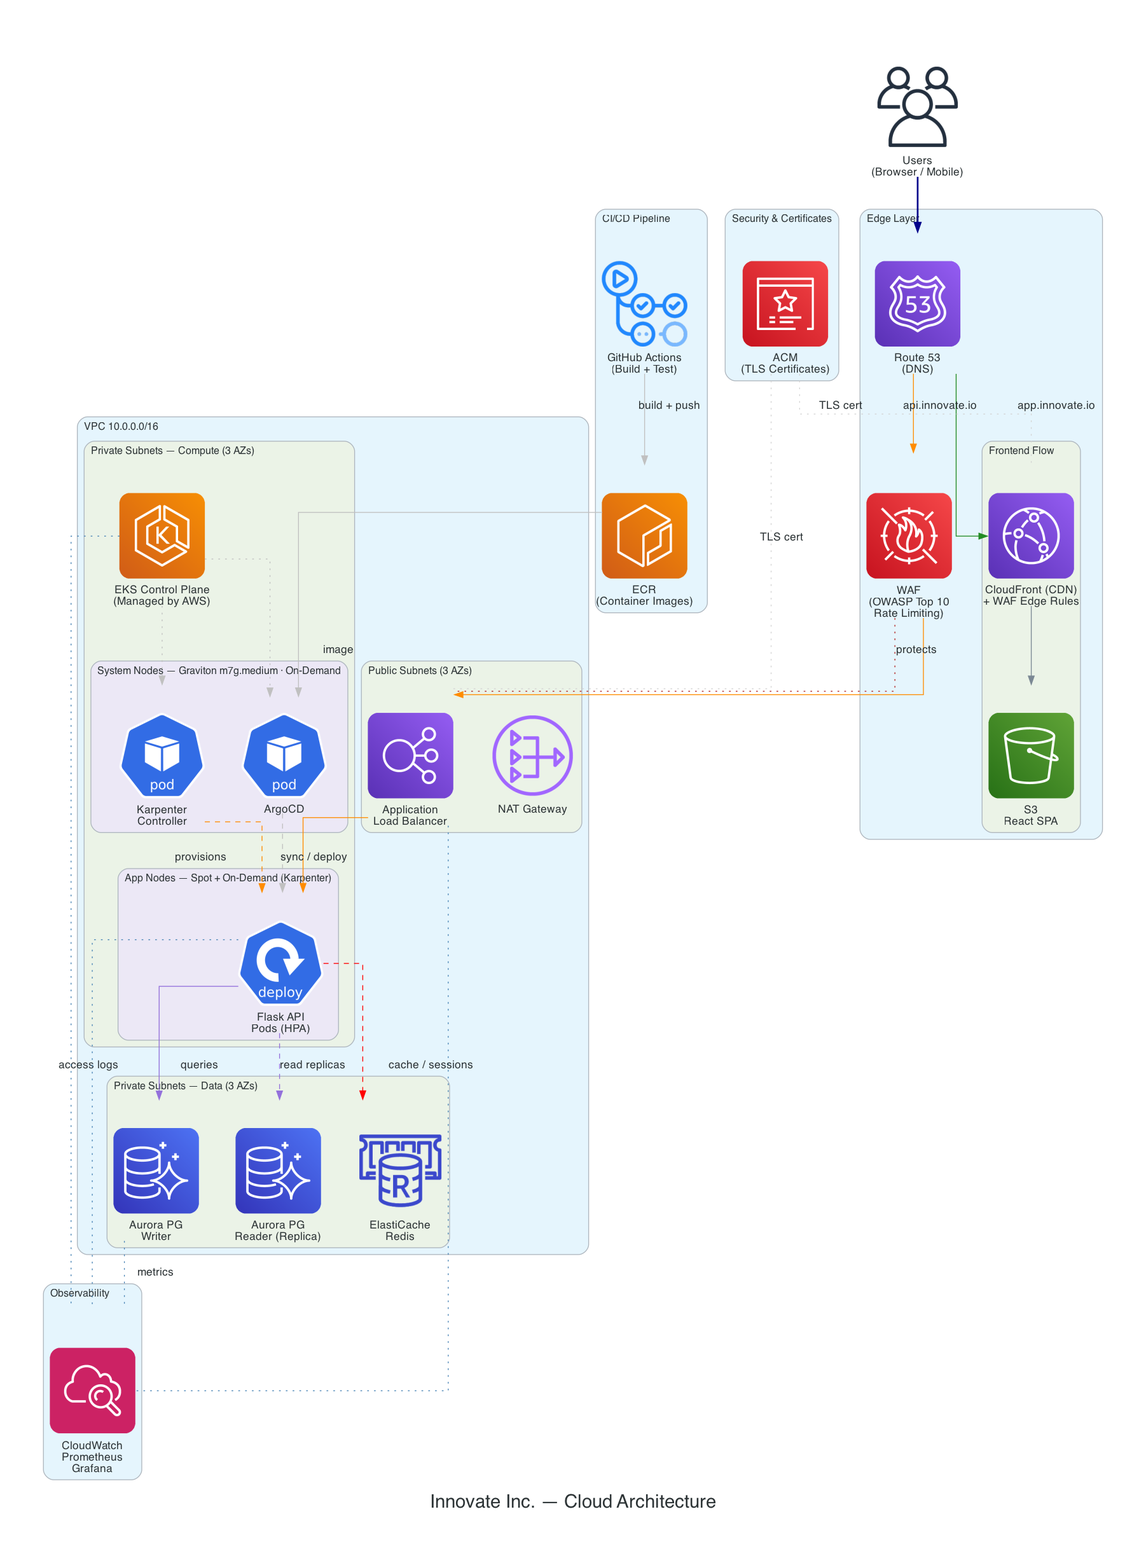
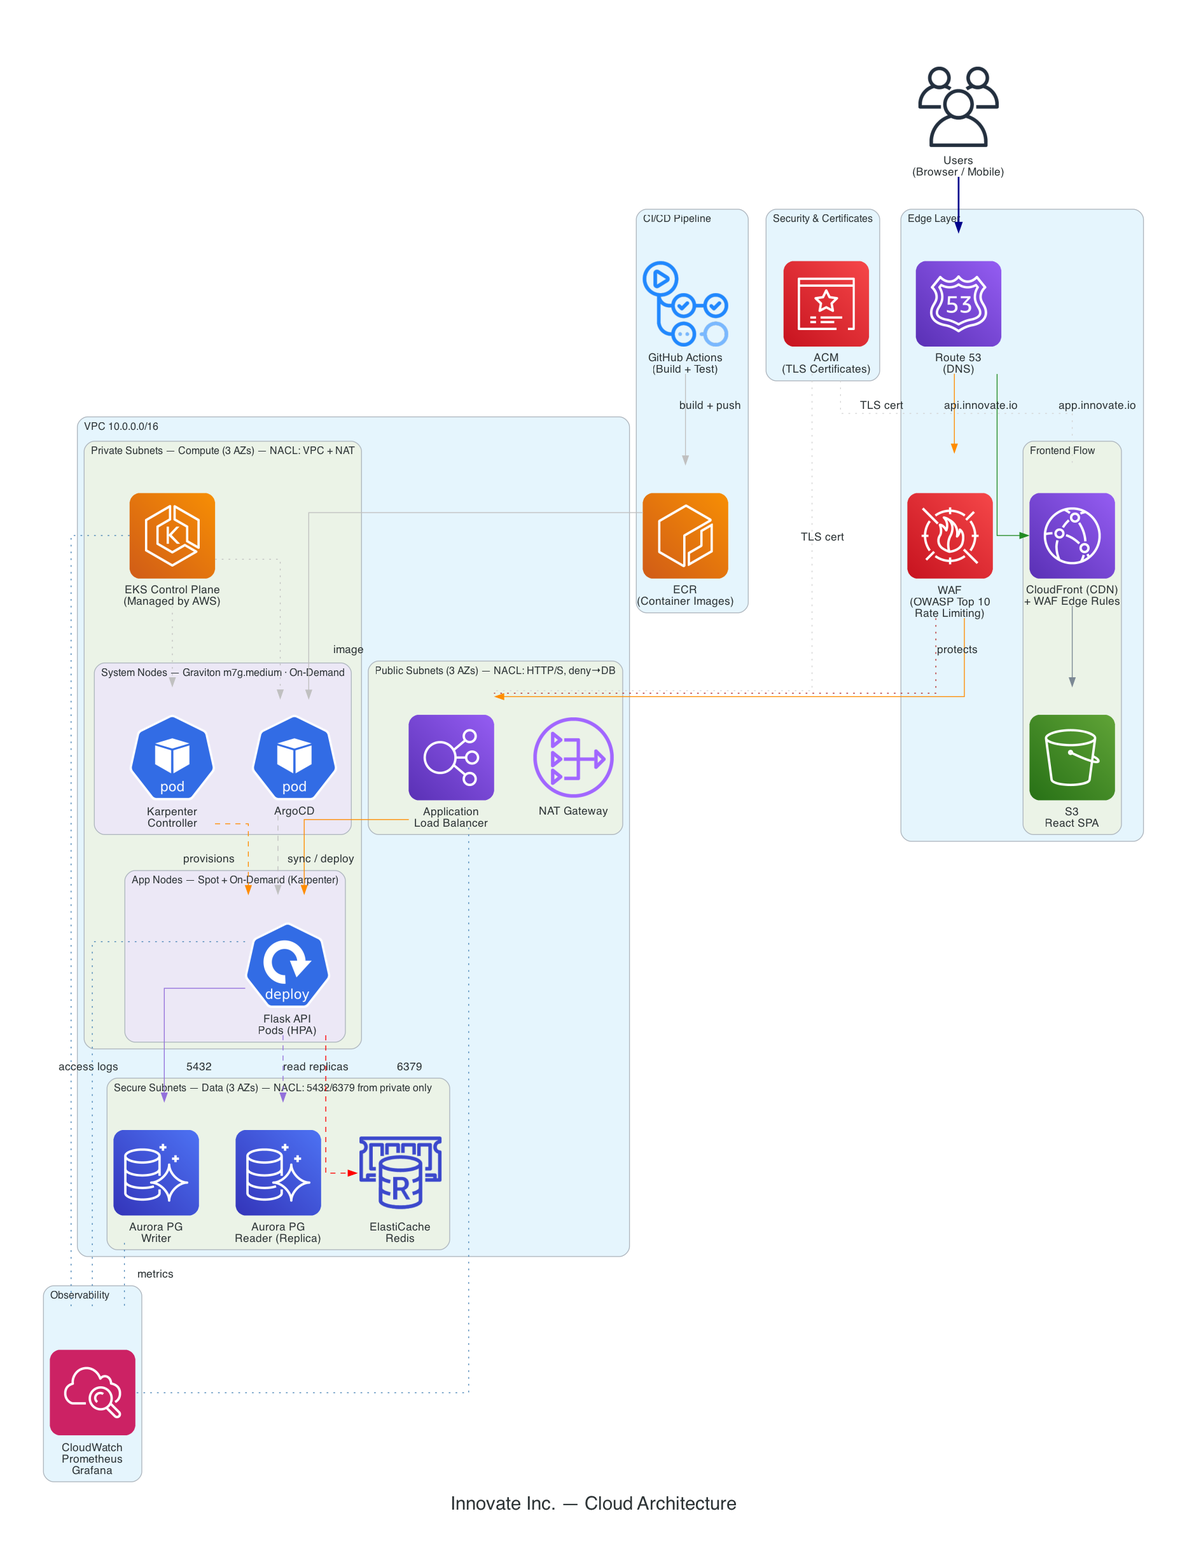
feat: add three-tier subnet architecture with NACL-based network segmentation
Introduce dedicated "secure" database subnets with Network ACLs enforcing
defense-in-depth: database tier only accepts PostgreSQL (5432) and Redis (6379)
from private compute subnets; public subnets explicitly denied from data tier.

diff --git a/terraform/diagrams/generate.py b/terraform/diagrams/generate.py
@@ -9,6 +9,7 @@ from diagrams.aws.network import NATGateway
 from diagrams.aws.integration import SQS
 from diagrams.aws.security import IAMRole
 from diagrams.k8s.compute import Pod, Deploy
+from diagrams.aws.database import Aurora, ElasticacheForRedis
 
 graph_attr = {
     "fontsize": "22",
@@ -39,10 +40,10 @@ with Diagram(
             # EKS control plane — managed by AWS, not inside subnets
             eks = EKS("EKS Control Plane\n(Managed by AWS)")
 
-            with Cluster("Public Subnets (3 AZs)"):
+            with Cluster("Public Subnets (3 AZs) — NACL: HTTP/S, deny→DB"):
                 nat = NATGateway("NAT Gateway\n(Outbound traffic)")
 
-            with Cluster("Private Subnets (3 AZs)"):
+            with Cluster("Private Subnets (3 AZs) — NACL: VPC + NAT"):
 
                 with Cluster("System Node Group — Graviton m7g.medium · On-Demand"):
                     karpenter = Pod("Karpenter\nController")
@@ -57,6 +58,10 @@ with Diagram(
                         node_x86 = EC2("c6i / m6i / r6i")
                         deploy_x86 = Deploy("amd64 workloads")
 
+            with Cluster("Secure Subnets (3 AZs) — NACL: 5432/6379 from private only"):
+                aurora = Aurora("Aurora PG\n(DB Subnet Group)")
+                redis = ElasticacheForRedis("ElastiCache Redis\n(future)")
+
     # EKS manages system pods
     eks >> Edge(color="darkblue", style="bold") >> karpenter
     eks >> Edge(color="darkblue") >> coredns
@@ -68,6 +73,10 @@ with Diagram(
     # Nodes run workloads
     node_arm >> deploy_arm
     node_x86 >> deploy_x86
+
+    # Workloads access data tier (through NACL-controlled boundary)
+    deploy_arm >> Edge(label="5432", style="dashed", color="mediumpurple") >> aurora
+    deploy_x86 >> Edge(label="6379", style="dashed", color="red") >> redis
 
     # Karpenter uses account-level services
     karpenter - Edge(label="auth", style="dotted", color="forestgreen") - iam

diff --git a/architecture/diagrams/generate.py b/architecture/diagrams/generate.py
@@ -55,11 +55,11 @@ with Diagram(
     # --- VPC ---
     with Cluster("VPC 10.0.0.0/16"):
 
-        with Cluster("Public Subnets (3 AZs)"):
+        with Cluster("Public Subnets (3 AZs) — NACL: HTTP/S, deny→DB"):
             alb = ElasticLoadBalancing("Application\nLoad Balancer")
             nat = NATGateway("NAT Gateway")
 
-        with Cluster("Private Subnets — Compute (3 AZs)"):
+        with Cluster("Private Subnets — Compute (3 AZs) — NACL: VPC + NAT"):
 
             # EKS control plane — managed by AWS, separate from worker nodes
             eks = EKS("EKS Control Plane\n(Managed by AWS)")
@@ -71,7 +71,7 @@ with Diagram(
             with Cluster("App Nodes — Spot + On-Demand (Karpenter)"):
                 flask_pods = Deploy("Flask API\nPods (HPA)")
 
-        with Cluster("Private Subnets — Data (3 AZs)"):
+        with Cluster("Secure Subnets — Data (3 AZs) — NACL: 5432/6379 from private only"):
             aurora_w = Aurora("Aurora PG\nWriter")
             aurora_r = Aurora("Aurora PG\nReader (Replica)")
             redis = ElasticacheForRedis("ElastiCache\nRedis")
@@ -102,10 +102,10 @@ with Diagram(
     # WAF also protects ALB (association)
     waf - Edge(style="dotted", color="firebrick", label="protects") - alb
 
-    # Flask → Data tier
-    flask_pods >> Edge(label="queries", color="mediumpurple") >> aurora_w
+    # Flask → Data tier (through NACL-controlled boundary)
+    flask_pods >> Edge(label="5432", color="mediumpurple") >> aurora_w
     flask_pods >> Edge(label="read replicas", style="dashed", color="mediumpurple") >> aurora_r
-    flask_pods >> Edge(label="cache / sessions", style="dashed", color="red") >> redis
+    flask_pods >> Edge(label="6379", style="dashed", color="red") >> redis
 
     # EKS → system pods (control, not traffic)
     eks >> Edge(style="dotted", color="gray") >> karpenter

diff --git a/architecture/README.md b/architecture/README.md
@@ -59,6 +59,8 @@ This document presents the cloud architecture for Innovate Inc.'s web applicatio
   │  │  └───────┬───────┘     └──────────┘     └──────────┘           │  │
   │  └──────────┼──────────────────────────────────────────────────────┘  │
   │             │                                                          │
+  │             │                                                          │
+  │             │  NACL: allow from public subnets + ephemeral from internet│
   │             ▼                                                          │
   │  ┌─── Private Subnets (Compute) ───────────────────────────────────┐  │
   │  │                                                                  │  │
@@ -78,8 +80,10 @@ This document presents the cloud architecture for Innovate Inc.'s web applicatio
   │  │  └───────────┘     └───────────┘     └───────────┘             │  │
   │  └──────────────────────────┬───────────────────────────────────────┘  │
   │                             │                                          │
+  │                             │  NACL: allow ONLY 5432/6379 from private │
+  │                             │        deny all other (public blocked)   │
   │                             ▼                                          │
-  │  ┌─── Private Subnets (Data) ──────────────────────────────────────┐  │
+  │  ┌─── Secure Subnets (Data) — Dedicated NACLs ────────────────────┐  │
   │  │                                                                  │  │
   │  │  ┌────────────────┐     ┌────────────────┐     ┌─────────────┐  │  │
   │  │  │ Aurora PG      │     │ Aurora PG      │     │ ElastiCache │  │  │
@@ -132,29 +136,33 @@ This document presents the cloud architecture for Innovate Inc.'s web applicatio
 ```
 ┌─────────────────── VPC (10.0.0.0/16) ───────────────────┐
 │                                                           │
-│  ┌─── Public Subnets ──────────────────────────────────┐ │
-│  │  10.0.1.0/24 (AZ-a)  │  10.0.2.0/24 (AZ-b)  │ AZ-c│ │
-│  │  ┌─────┐  ┌─────┐    │  ┌─────┐               │     │ │
-│  │  │ NAT │  │ ALB │    │  │ NAT │               │     │ │
-│  │  │ GW  │  │     │    │  │ GW  │               │     │ │
-│  │  └─────┘  └─────┘    │  └─────┘               │     │ │
-│  └───────────────────────────────────────────────────┘  │
+│  ┌─── Public Subnets ──── NACL: HTTP/S in, deny→DB ──┐ │
+│  │  10.0.48.0/24 (AZ-a) │ 10.0.49.0/24 (AZ-b) │ AZ-c│ │
+│  │  ┌─────┐  ┌─────┐    │  ┌─────┐               │   │ │
+│  │  │ NAT │  │ ALB │    │  │ NAT │               │   │ │
+│  │  │ GW  │  │     │    │  │ GW  │               │   │ │
+│  │  └─────┘  └─────┘    │  └─────┘               │   │ │
+│  └────────────────┬──────────────────────────────────┘ │
+│                    │ ✓ allowed                           │
+│                    ▼                                     │
+│  ┌─── Private Subnets (Compute) ── NACL: VPC + NAT ──┐ │
+│  │  10.0.0.0/20 (AZ-a)  │ 10.0.16.0/20 (AZ-b) │ AZ-c│ │
+│  │  ┌──────────┐        │ ┌──────────┐          │    │ │
+│  │  │ EKS Nodes│        │ │ EKS Nodes│          │    │ │
+│  │  │ (Flask)  │        │ │ (Flask)  │          │    │ │
+│  │  └──────────┘        │ └──────────┘          │    │ │
+│  └────────────────┬──────────────────────────────────┘ │
+│                    │ ✓ 5432/6379 only                    │
+│                    ▼                                     │
+│  ┌─── Secure Subnets (Data) ── NACL: private only ───┐ │
+│  │  10.0.64.0/24 (AZ-a) │ 10.0.65.0/24 (AZ-b) │ AZ-c│ │
+│  │  ┌──────────┐        │ ┌──────────┐          │    │ │
+│  │  │ Aurora   │        │ │ Aurora   │          │    │ │
+│  │  │ Primary  │        │ │ Replica  │          │    │ │
+│  │  └──────────┘        │ └──────────┘          │    │ │
+│  └───────────────────────────────────────────────────┘ │
 │                                                           │
-│  ┌─── Private Subnets (Application) ──────────────────┐ │
-│  │  10.0.10.0/24 (AZ-a) │ 10.0.11.0/24 (AZ-b) │ AZ-c │ │
-│  │  ┌──────────┐        │ ┌──────────┐          │     │ │
-│  │  │ EKS Nodes│        │ │ EKS Nodes│          │     │ │
-│  │  │ (Flask)  │        │ │ (Flask)  │          │     │ │
-│  │  └──────────┘        │ └──────────┘          │     │ │
-│  └───────────────────────────────────────────────────┘  │
-│                                                           │
-│  ┌─── Private Subnets (Data) ─────────────────────────┐ │
-│  │  10.0.20.0/24 (AZ-a) │ 10.0.21.0/24 (AZ-b) │ AZ-c │ │
-│  │  ┌──────────┐        │ ┌──────────┐          │     │ │
-│  │  │ Aurora   │        │ │ Aurora   │          │     │ │
-│  │  │ Primary  │        │ │ Replica  │          │     │ │
-│  │  └──────────┘        │ └──────────┘          │     │ │
-│  └───────────────────────────────────────────────────┘  │
+│  ✗ Public → Secure: BLOCKED by NACL (explicit deny)      │
 └───────────────────────────────────────────────────────────┘
 ```
 
@@ -163,9 +171,10 @@ This document presents the cloud architecture for Innovate Inc.'s web applicatio
 | Layer | Control | Description |
 |-------|---------|-------------|
 | **Edge** | AWS WAF + Shield | OWASP Top 10 protection, DDoS mitigation, rate limiting |
+| **Subnet isolation** | Network ACLs (NACLs) | Three-tier enforcement: public → private → secure. Database subnets only accept 5432/6379 from private compute subnets; public subnets explicitly denied from reaching data tier |
 | **Ingress** | ALB + Security Groups | Only ports 80/443 from internet to ALB; ALB to EKS pods only |
 | **Pod-to-Pod** | Kubernetes Network Policies | Default deny all, explicit allow between Flask and database |
-| **Data tier** | Security Groups | Database accepts traffic only from EKS node security group |
+| **Data tier** | Security Groups + NACLs | Double enforcement — SGs allow only EKS node SG; NACLs allow only private subnet CIDRs on DB ports |
 | **Egress** | NAT Gateway | All outbound traffic through NAT; VPC Flow Logs for audit |
 | **Encryption** | TLS everywhere | ACM certificates on ALB; in-transit encryption to Aurora; KMS for data at rest |
 | **DNS** | Private Hosted Zones | Internal service discovery without public exposure |

diff --git a/terraform/README.md b/terraform/README.md
@@ -5,50 +5,54 @@ Terraform code that deploys a production-ready Amazon EKS cluster with [Karpente
 ## Architecture
 
 ```
-┌─────────────────────────────────────────────────────────────┐
-│                         VPC (10.0.0.0/16)                   │
-│                                                             │
-│  ┌──────────────┐  ┌──────────────┐  ┌──────────────┐      │
-│  │  Public Sub   │  │  Public Sub   │  │  Public Sub   │    │
-│  │  AZ-a         │  │  AZ-b         │  │  AZ-c         │    │
-│  └──────┬───────┘  └──────┬───────┘  └──────┬───────┘      │
-│         │   NAT GW        │                  │              │
-│  ┌──────┴───────┐  ┌──────┴───────┐  ┌──────┴───────┐      │
-│  │  Private Sub  │  │  Private Sub  │  │  Private Sub  │    │
-│  │  AZ-a         │  │  AZ-b         │  │  AZ-c         │    │
-│  │               │  │               │  │               │    │
-│  │  ┌─────────┐  │  │  ┌─────────┐  │  │               │    │
-│  │  │Karpenter│  │  │  │Karpenter│  │  │               │    │
-│  │  │System   │  │  │  │System   │  │  │               │    │
-│  │  │(Graviton)│ │  │  │(Graviton)│ │  │               │    │
-│  │  │On-Demand│  │  │  │On-Demand│  │  │               │    │
-│  │  └─────────┘  │  │  └─────────┘  │  │               │    │
-│  │               │  │               │  │               │    │
-│  │  ┌─────────┐  │  │  ┌─────────┐  │  │  ┌─────────┐  │   │
-│  │  │ Spot    │  │  │  │ Spot    │  │  │  │ Spot    │  │   │
-│  │  │ x86/arm │  │  │  │ x86/arm │  │  │  │ x86/arm │  │   │
-│  │  │Karpenter│  │  │  │Karpenter│  │  │  │Karpenter│  │   │
-│  │  │ Managed │  │  │  │ Managed │  │  │  │ Managed │  │   │
-│  │  └─────────┘  │  │  └─────────┘  │  │  └─────────┘  │   │
-│  └──────────────┘  └──────────────┘  └──────────────┘      │
-│                                                             │
-│                    ┌──────────────┐                          │
-│                    │  EKS Control │                          │
-│                    │    Plane     │                          │
-│                    └──────────────┘                          │
-└─────────────────────────────────────────────────────────────┘
+┌──────────────────────────────────────────────────────────────┐
+│                         VPC (10.0.0.0/16)                    │
+│                                                              │
+│  ┌─── Public Subnets ─── NACL: HTTP/S in, deny→DB ────────┐│
+│  │  AZ-a           AZ-b           AZ-c                     ││
+│  │  ┌─────┐        ┌─────┐                                 ││
+│  │  │ NAT │        │     │                                  ││
+│  │  │ GW  │        │     │                                  ││
+│  │  └─────┘        └─────┘                                  ││
+│  └──────────────────┬───────────────────────────────────────┘│
+│                     │ ✓ allowed                              │
+│  ┌─── Private Subnets (Compute) ── NACL: VPC + NAT ───────┐│
+│  │  AZ-a           AZ-b           AZ-c                     ││
+│  │  ┌───────────┐  ┌───────────┐  ┌───────────┐            ││
+│  │  │ System    │  │ System    │  │ Karpenter │            ││
+│  │  │ (Graviton)│  │ (Graviton)│  │ Spot      │            ││
+│  │  │ On-Demand │  │ On-Demand │  │ x86/arm   │            ││
+│  │  │ Karpenter │  │           │  │           │            ││
+│  │  └───────────┘  └───────────┘  └───────────┘            ││
+│  └──────────────────┬───────────────────────────────────────┘│
+│                     │ ✓ 5432/6379 only                       │
+│  ┌─── Secure Subnets (Data) ── NACL: private only ────────┐│
+│  │  AZ-a           AZ-b           AZ-c                     ││
+│  │  ┌───────────┐  ┌───────────┐  ┌───────────┐            ││
+│  │  │ Aurora    │  │ Aurora    │  │ Redis     │            ││
+│  │  │ (future)  │  │ (future)  │  │ (future)  │            ││
+│  │  └───────────┘  └───────────┘  └───────────┘            ││
+│  └──────────────────────────────────────────────────────────┘│
+│  ✗ Public → Secure: BLOCKED by NACL                          │
+│                                                              │
+│  ┌──────────────┐                                            │
+│  │  EKS Control │                                            │
+│  │    Plane     │                                            │
+│  └──────────────┘                                            │
+└──────────────────────────────────────────────────────────────┘
 ```
 
 ## What Gets Deployed
 
 | Resource | Description |
 |----------|-------------|
-| **VPC** | 3 AZs, public + private subnets, single NAT Gateway |
+| **VPC** | 3 AZs, public + private + secure (database) subnets, single NAT Gateway |
 | **EKS Cluster** | Kubernetes 1.35, managed control plane |
 | **System Node Group** | Graviton `m7g.medium` (On-Demand) — runs Karpenter controller |
 | **Karpenter** | v1.9.0 via Helm, Pod Identity auth, SQS interruption queue |
 | **NodePool** | x86 + ARM64, Spot + On-Demand, 6th gen+ instances (c/m/r families) |
 | **EC2NodeClass** | Amazon Linux 2023 AMI, auto-discovers subnets and security groups |
+| **Network ACLs** | Three-tier NACLs — secure subnets only accept 5432/6379 from private; public blocked from data tier |
 
 ## Prerequisites
 
@@ -168,4 +172,6 @@ vpc_cidr           = "10.1.0.0/16"
 
 4. **AL2023 AMI** — Amazon Linux 2023 provides the latest security patches and supports both x86 and ARM64.
 
-5. **Local state** — For POC simplicity. Production would use S3 + DynamoDB backend.
+5. **Three-tier NACLs (defense-in-depth)** — Database subnets have dedicated NACLs that only allow PostgreSQL (5432) and Redis (6379) from private compute subnets. Public subnets have explicit DENY rules to database CIDRs. This enforces network segmentation at L4, complementing security groups (which operate at instance level).
+
+6. **Local state** — For POC simplicity. Production would use S3 + DynamoDB backend.
